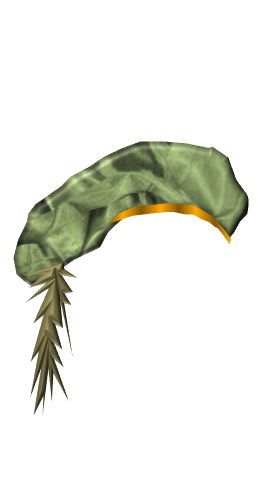
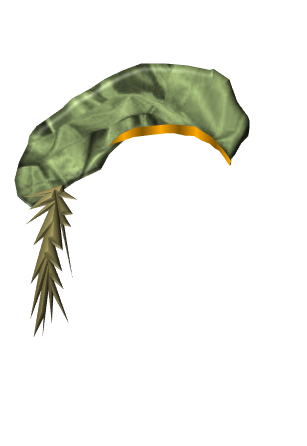
Style updates

Changed region(s): [[0.0289, 0.1166, 0.8953, 0.8453]]

diff --git a/faceData/facestyle.css b/faceData/facestyle.css
@@ -25,10 +25,10 @@
     }
 
     .Eyes_Pos { position:absolute; top:120px; left:100px; }
-    .Face_Pos { position:absolute; top:130px; left:100px; }
+    .Face_Pos { position:absolute; top:100px; left:70px; }
     .Mouth_Pos { position:absolute; top:320px; left:97px; }
     .Hair_Pos { position:absolute; top:0px; left:65px; }
-    .Gadget_Pos { position:absolute; top:10px; left:60px; }
+    .Gadget_Pos { position:absolute; top:10px; left:50px; }
     .Brows_Pos { position:absolute; top:210px; left:80px; }
     .Eyes_Pos { position:absolute; top:220px; left:90px; }
     .Beard_Pos { position:absolute; top:280px; left:80px;}
